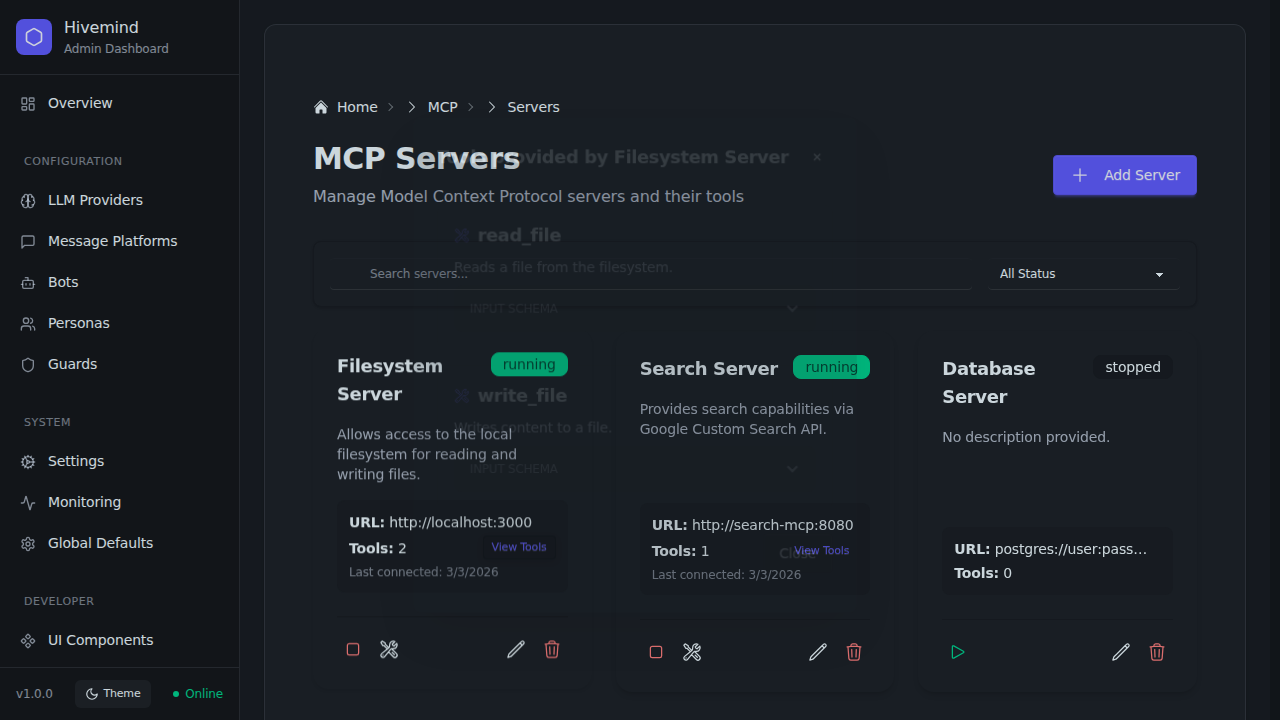
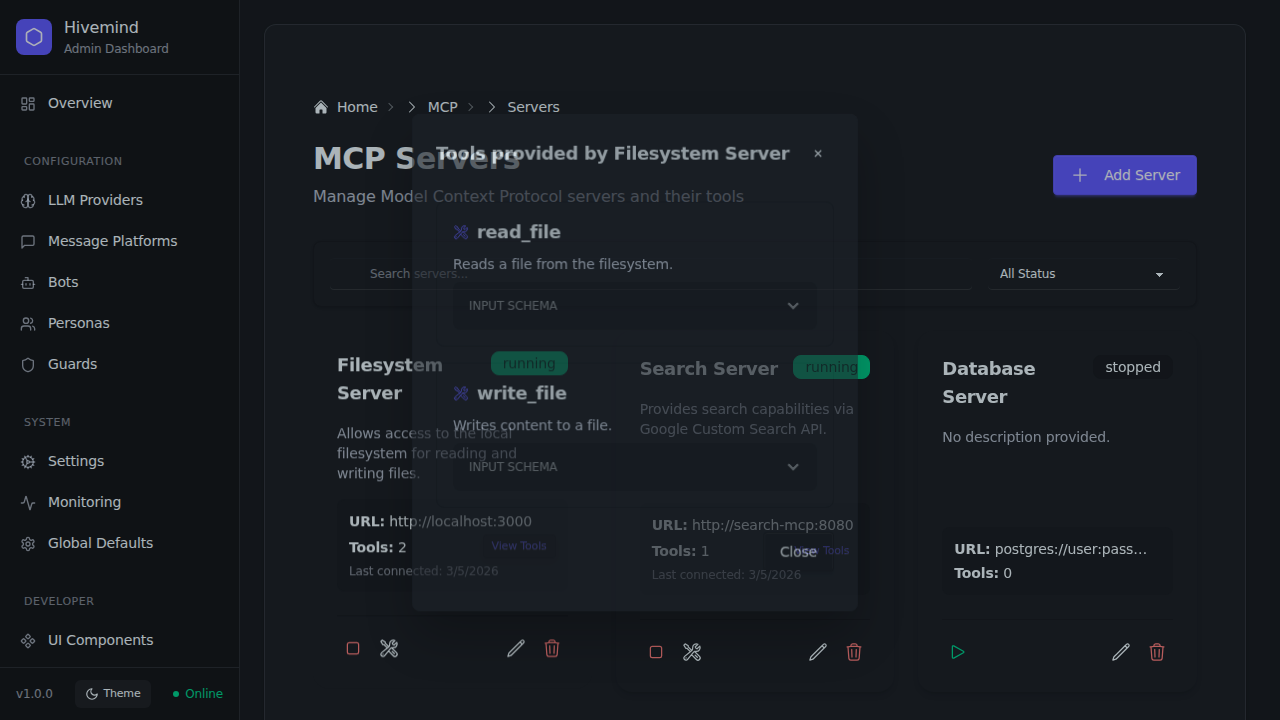
Refiner (1. MCPServerManager controls the complete lifecycle of r (#1192)

diff --git a/src/client/src/components/MCPServerManager.tsx b/src/client/src/components/MCPServerManager.tsx
@@ -13,6 +13,8 @@ interface MCPServer {
   apiKey?: string;
   connected: boolean;
   tools?: unknown[];
+  description?: string;
+  lastConnected?: string;
 }
 
 interface MCPTool {
@@ -57,15 +59,29 @@ const MCPServerManager: React.FC = () => {
       const serverList: MCPServer[] = [];
       if (data.servers) {
         Object.entries(data.servers).forEach(([name, server]: [string, unknown]) => {
-          const serverObj = server as { serverUrl?: string; apiKey?: string };
-          serverList.push({ name, serverUrl: serverObj.serverUrl || '', apiKey: serverObj.apiKey || '', connected: true });
+          const serverObj = server as { serverUrl?: string; apiKey?: string; description?: string; lastConnected?: string; tools?: unknown[] };
+          serverList.push({
+            name,
+            serverUrl: serverObj.serverUrl || '',
+            apiKey: serverObj.apiKey || '',
+            connected: true,
+            description: serverObj.description,
+            lastConnected: serverObj.lastConnected,
+            tools: serverObj.tools,
+          });
         });
       }
       if (data.configurations) {
         data.configurations.forEach((config: unknown) => {
-          const configObj = config as { name?: string; serverUrl?: string; apiKey?: string };
+          const configObj = config as { name?: string; serverUrl?: string; apiKey?: string; description?: string };
           if (!serverList.find(s => s.name === configObj.name) && configObj.name) {
-            serverList.push({ name: configObj.name, serverUrl: configObj.serverUrl || '', apiKey: configObj.apiKey || '', connected: false });
+            serverList.push({
+              name: configObj.name,
+              serverUrl: configObj.serverUrl || '',
+              apiKey: configObj.apiKey || '',
+              connected: false,
+              description: configObj.description,
+            });
           }
         });
       }
@@ -143,36 +159,50 @@ const MCPServerManager: React.FC = () => {
         </div>
         <div className="flex gap-2">
           <Button variant="ghost" onClick={fetchServers} startIcon={<ArrowPathIcon className="w-5 h-5" />}>Refresh</Button>
-          <Button variant="primary" onClick={() => { setFormData({ name: '', serverUrl: '', apiKey: '' }); setConnectDialogOpen(true); }} startIcon={<PlusIcon className="w-5 h-5" />}>Connect Server</Button>
+          <Button variant="primary" onClick={() => { setFormData({ name: '', serverUrl: '', apiKey: '' }); setConnectDialogOpen(true); }} startIcon={<PlusIcon className="w-5 h-5" />}>Add Server</Button>
         </div>
       </div>
 
       {error && <Alert status="error" message={error} onClose={() => setError(null)} />}
 
-      <div className="overflow-x-auto">
-        <table className="table w-full">
-          <thead>
-            <tr><th>Name</th><th>Server URL</th><th>Status</th><th>Actions</th></tr>
-          </thead>
-          <tbody>
-            {servers.map(server => (
-              <tr key={server.name} className="hover">
-                <td><div className="flex items-center gap-2"><WrenchScrewdriverIcon className="w-5 h-5 text-base-content/70" /><span className="font-medium">{server.name}</span></div></td>
-                <td><span className="font-mono text-sm">{server.serverUrl}</span></td>
-                <td><Badge variant={server.connected ? 'success' : 'secondary'}>{server.connected ? 'Connected' : 'Disconnected'}</Badge></td>
-                <td>
-                  <div className="flex gap-2">
-                    {server.connected && <Button size="sm" variant="ghost" onClick={() => handleViewTools(server)}><WrenchScrewdriverIcon className="w-4 h-4" /></Button>}
-                    <Button size="sm" variant="ghost" className="text-error" onClick={() => handleDisconnectServer(server.name)}><LinkIcon className="w-4 h-4" /></Button>
-                  </div>
-                </td>
-              </tr>
-            ))}
-          </tbody>
-        </table>
+      <div className="grid grid-cols-1 md:grid-cols-2 lg:grid-cols-3 gap-4">
+        {servers.map(server => (
+          <Card
+            key={server.name}
+            className="card bg-base-200 shadow-sm hover:shadow-md transition-shadow"
+            title={
+              <div className="flex items-center justify-between w-full">
+                <span>{server.name}</span>
+                <Badge variant={server.connected ? 'success' : 'secondary'} className="shrink-0 font-normal text-xs">{server.connected ? 'running' : 'stopped'}</Badge>
+              </div>
+            }
+            actions={
+              <div className="flex flex-wrap justify-end gap-2 w-full pt-2">
+                {server.connected && <Button size="sm" variant="ghost" aria-label="View Tools" title="View Tools" onClick={() => handleViewTools(server)}><WrenchScrewdriverIcon className="w-4 h-4 mr-1" />View Tools</Button>}
+                <Button size="sm" variant="ghost" className="text-error" aria-label="Disconnect Server" title="Disconnect Server" onClick={() => handleDisconnectServer(server.name)}><LinkIcon className="w-4 h-4 mr-1" />Disconnect</Button>
+              </div>
+            }
+          >
+            <div className="flex flex-col gap-3 h-full">
+              {server.description && (
+                <p className="text-sm opacity-80 flex-grow">{server.description}</p>
+              )}
+
+              <div className="flex flex-col gap-2 mt-auto bg-base-300 p-3 rounded-lg text-xs opacity-80">
+                <span className="font-mono truncate" title={server.serverUrl}>URL: {server.serverUrl}</span>
+                <div className="flex justify-between items-center">
+                  <span>Tools: {server.tools ? server.tools.length : 0}</span>
+                  {server.lastConnected && (
+                    <span>Last connected: {new Date(server.lastConnected).toLocaleDateString()}</span>
+                  )}
+                </div>
+              </div>
+            </div>
+          </Card>
+        ))}
       </div>
 
-      <Modal isOpen={connectDialogOpen} onClose={() => setConnectDialogOpen(false)} title="Connect to MCP Server">
+      <Modal isOpen={connectDialogOpen} onClose={() => setConnectDialogOpen(false)} title="Add MCP Server">
         <div className="space-y-4">
           <div className="form-control">
             <label className="label"><span className="label-text">Server Name</span></label>
@@ -194,7 +224,7 @@ const MCPServerManager: React.FC = () => {
         </div>
       </Modal>
 
-      <Modal isOpen={toolsDialogOpen} onClose={() => setToolsDialogOpen(false)} title={`Tools - ${selectedServer?.name}`}>
+      <Modal isOpen={toolsDialogOpen} onClose={() => setToolsDialogOpen(false)} title={`Tools provided by ${selectedServer?.name}`}>
         <div className="py-4">
           {serverTools.length > 0 ? (
             <ul className="menu bg-base-200 w-full rounded-box">

diff --git a/src/client/src/components/DaisyUI/index.ts b/src/client/src/components/DaisyUI/index.ts
@@ -6,7 +6,6 @@ export { default as Badge } from './Badge';
 export { default as Breadcrumbs } from './Breadcrumbs';
 export { default as Hero } from './Hero';
 export { default as Button } from './Button';
-export { default as IconButton } from './IconButton';
 export { default as Card } from './Card';
 export { default as Carousel } from './Carousel';
 export { default as Chat } from './Chat';
@@ -69,3 +68,4 @@ export { trackDaisyUIComponent, daisyUITracker } from '../../utils/DaisyUICompon
 
 // Advanced Components
 export { default as ModelAutocomplete } from './ModelAutocomplete';
+
